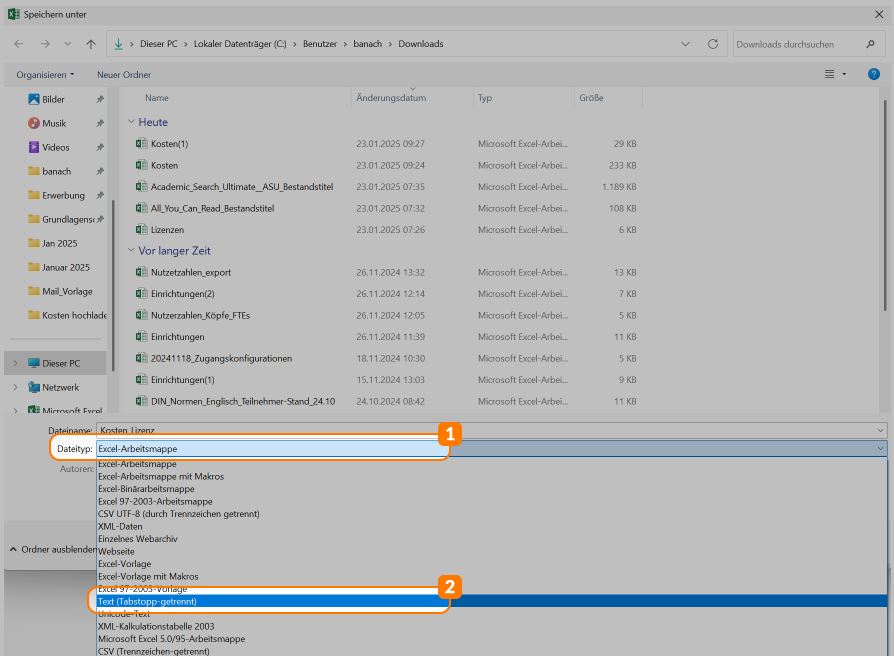
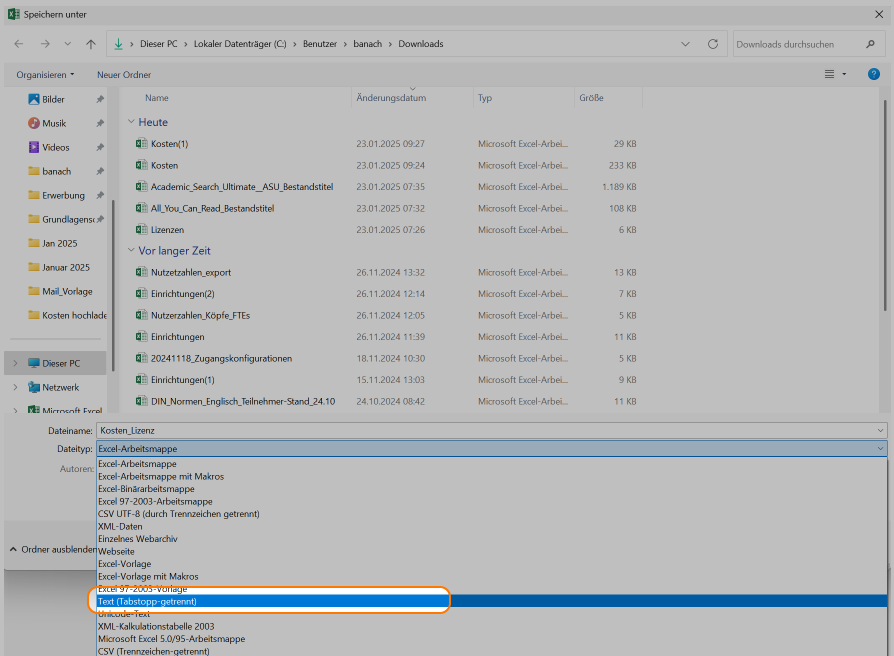
ERMS-6089

Changed region(s): [[0.0302, 0.6402, 0.5134, 0.7012], [0.4832, 0.8537, 0.5134, 0.9146]]

diff --git a/src/main/resources/manual/financeImport.md b/src/main/resources/manual/financeImport.md
@@ -1,8 +1,3 @@
-### Wie kann ich Kosten hochladen?
-So können Sie Kosten in Form einer Tabelle hochladen: Eine Vorlage finden der Tabelle Sie unter **Meine Einrichtung > Kostenübersicht > Zauberstab > Finanzimport**. 
-Erläuterungen darüber, mit welchen Daten Sie die Spalten befüllen müssen, finden Sie dort in dem Ausklappfenster, das Sie mit dem Fragezeichen oben rechts öffnen können.
-![Abbildung_Fragezeichen_Icon.png]({{url_laser_static}}/media/finance/Abbildung_Fragezeichen_Icon.png)
-
 Nachfolgend eine Anleitung, wie Sie die Tabelle mit Excel befüllen können. 
 **Hinweis:** die Anleitung wurde mit Excel 2019 erstellt, ggf. weichen einige Bezeichnungen und Abbildungen in anderen Versionen ab!
 
@@ -30,8 +25,7 @@ können Sie sie durch Heraufscrollen im Bereich "Tabellenformatvorlagen" auf ein
 -------------------------
 Nachdem Sie die Werte befüllt haben, gehen Sie bitte wie folgt vor:
 
-1. Wählen Sie nach Klick auf "Speichern unter ..." als Dateityp "Excel-Arbeitsmappe"
-2. als Dateiformat "Text (Tabstopp-getrennt)" ab. Die Dateiendung .txt stört dabei nicht.
+* Wählen Sie nach Klick auf "Speichern unter ..." als Dateityp "Text (Tabstopp-getrennt)"
 ![financeupload_6.png]({{url_laser_static}}/media/finance/financeupload_6.png)
 -------------------------
 * Datei speichern.
